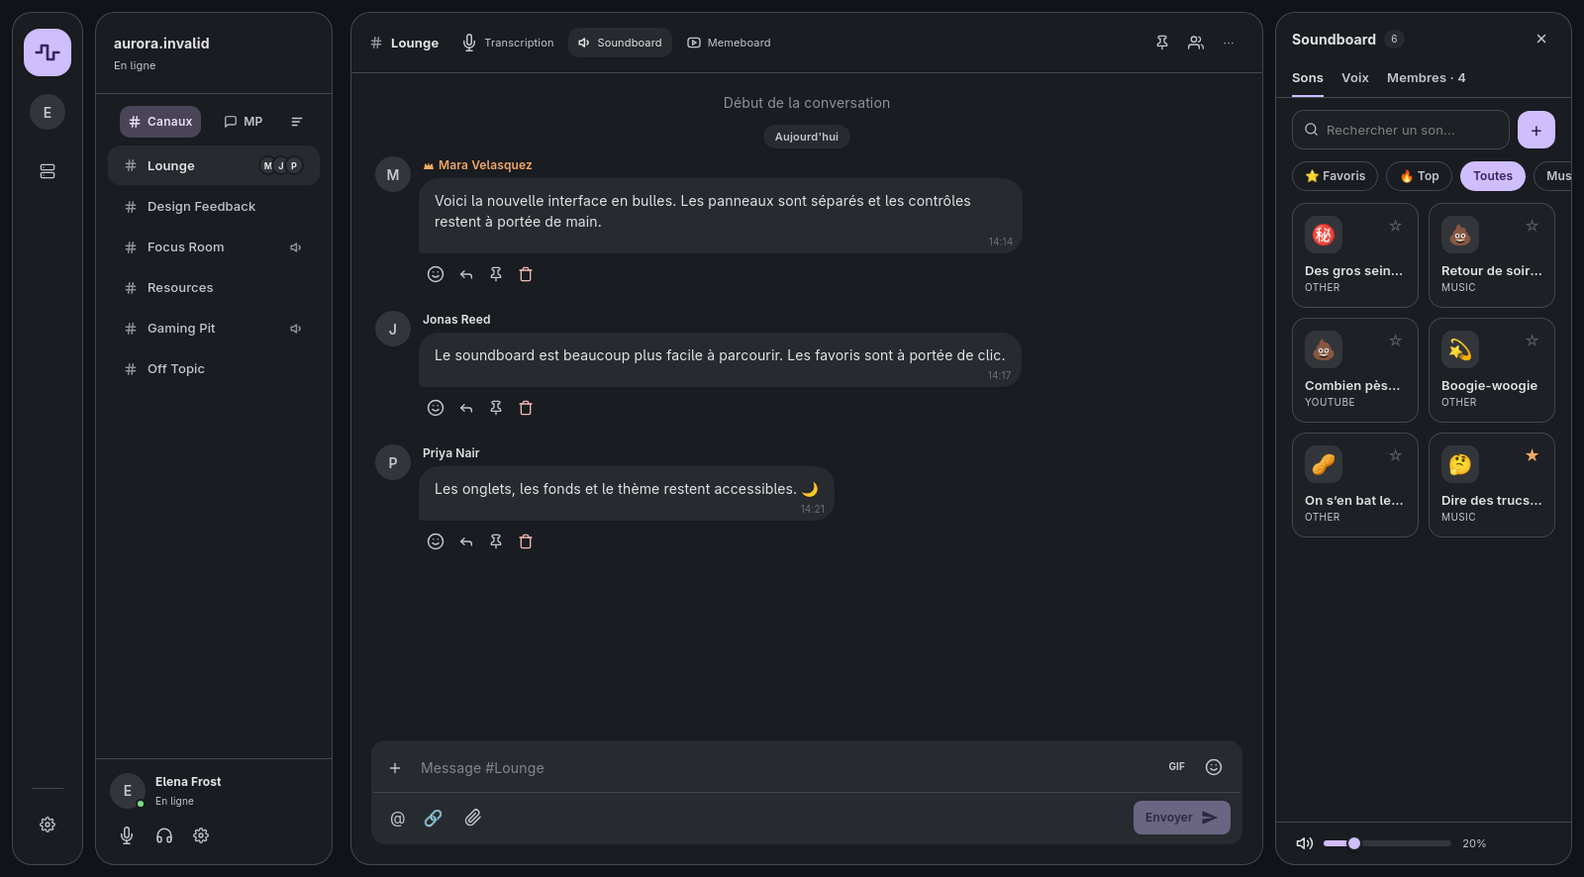
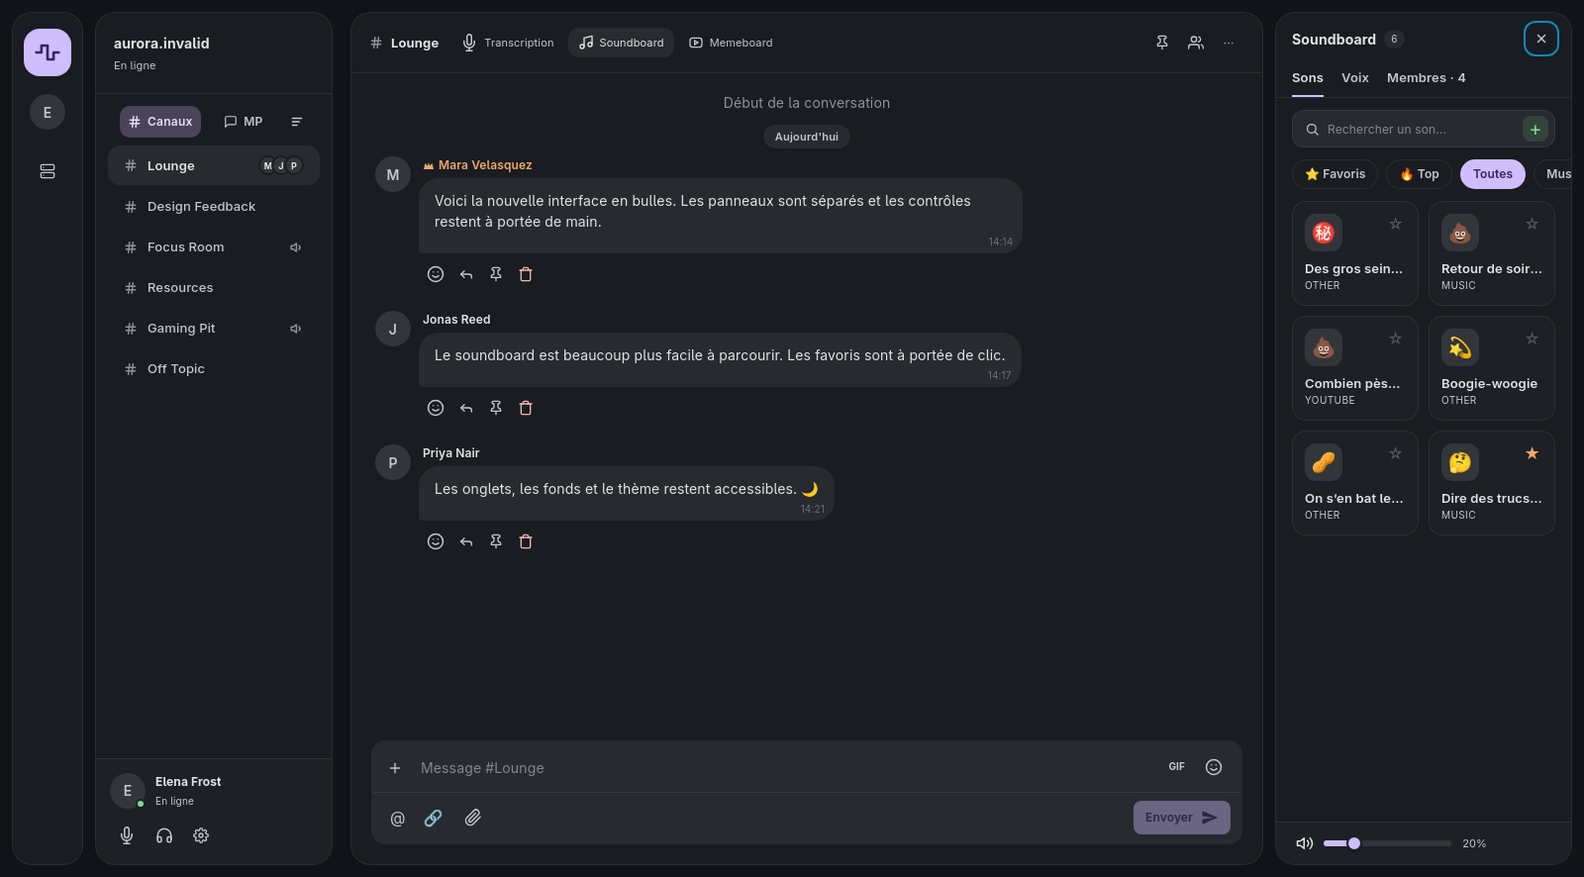
fix(interface): adoucir les bulles et intégrer les actions de recherche

diff --git a/src/components/chat/SoundboardPanel.tsx b/src/components/chat/SoundboardPanel.tsx
@@ -1,3 +1,4 @@
+import { RecherchePanneau } from "./RecherchePanneau";
 import { useCompteurPanneau } from "../layout/panneauxCompteurs";
 import { useEffect, useState, useMemo, useRef } from "react";
 import { useTranslation } from "react-i18next";
@@ -361,7 +362,7 @@ export function SoundboardPanel() {
         display: 'flex', alignItems: 'center', gap: 5, flexShrink: 0,
         padding: '5px 12px', borderRadius: 999, cursor: 'pointer',
         fontSize: 12, fontWeight: 600, fontFamily: 'inherit', whiteSpace: 'nowrap',
-        border: active ? '1px solid var(--color-primary)' : '1px solid var(--color-outline-variant)',
+        border: active ? '1px solid var(--color-primary)' : '1px solid var(--color-border)',
         background: active ? 'var(--color-primary)' : 'transparent',
         color: active ? 'var(--color-on-primary)' : 'var(--color-on-surface-variant)',
         opacity: opts?.dim ? 0.5 : 1,
@@ -379,31 +380,6 @@ export function SoundboardPanel() {
     { key: "voices" as const, label: t("tts.tab"), show: canUpload && !SUR_ANDROID },
     { key: "members" as const, label: `${t("soundboard.tabMembers")} · ${members.length}`, show: canManageMembers },
   ].filter((x) => x.show);
-
-  const searchBox = (inHeader: boolean) => (
-    <div style={{
-      position: 'relative', display: 'flex', alignItems: 'center', minWidth: 0,
-      flex: inHeader ? '0 1 220px' : 1,
-    }}>
-      <span style={{ position: 'absolute', left: inHeader ? 10 : 12, color: 'var(--color-on-surface-variant)', display: 'flex', pointerEvents: 'none' }}>
-        <svg width={inHeader ? 13 : 15} height={inHeader ? 13 : 15} viewBox="0 0 24 24" fill="none" stroke="currentColor" strokeWidth="2" strokeLinecap="round" strokeLinejoin="round">
-          <circle cx="11" cy="11" r="8" /><line x1="21" y1="21" x2="16.65" y2="16.65" />
-        </svg>
-      </span>
-      <input
-        value={search}
-        onChange={(e) => setSearch(e.target.value)}
-        placeholder={t("soundboard.searchPlaceholder")}
-        style={{
-          width: '100%', minWidth: 0, boxSizing: 'border-box',
-          padding: inHeader ? '4px 10px 4px 28px' : '9px 12px 9px 34px',
-          borderRadius: inHeader ? 999 : 12,
-          border: '1px solid var(--color-outline-variant)', background: 'var(--color-surface-container)',
-          color: 'var(--color-on-surface)', fontSize: inHeader ? 12 : 13, fontFamily: 'inherit', outline: 'none',
-        }}
-      />
-    </div>
-  );
 
   const volumeControl = (inHeader: boolean) => (
     <div style={{ display: 'flex', alignItems: 'center', gap: 6, minWidth: 0, flexShrink: 0, color: 'var(--color-on-surface-variant)' }}>
@@ -445,19 +421,6 @@ export function SoundboardPanel() {
     </div>
   );
 
-  const uploadButton = (small: boolean) => (
-    <button
-      onClick={() => setShowUpload(true)}
-      aria-label={t("soundboard.upload")} title={t("soundboard.upload")}
-      style={{
-        width: small ? 28 : 38, height: small ? 28 : 38, flexShrink: 0,
-        borderRadius: small ? 999 : 12, border: 'none',
-        background: 'var(--color-primary)', color: 'var(--color-on-primary)', cursor: 'pointer',
-        fontSize: small ? 17 : 20, fontWeight: 400, display: 'flex', alignItems: 'center', justifyContent: 'center', lineHeight: 1,
-      }}
-    >+</button>
-  );
-
   return (
     <div className="soundboard-panel" style={{ display: 'flex', flexDirection: 'column', flex: 1, minHeight: 0, overflow: 'hidden' }}>
       <style>{`
@@ -473,7 +436,7 @@ export function SoundboardPanel() {
           {/* Tabs — défilement horizontal (masqué) pour ne jamais rogner quand le
               panneau est étroit. */}
           {roomId && (canUpload || canManageMembers) && (
-            <div className="sb-pills" onWheel={onPillWheel} style={{ display: 'flex', gap: 18, padding: '0 16px', borderBottom: '1px solid var(--color-outline-variant)', overflowX: 'auto' }}>
+            <div className="sb-pills" onWheel={onPillWheel} style={{ display: 'flex', gap: 18, padding: '0 16px', borderBottom: '1px solid var(--color-border)', overflowX: 'auto' }}>
               {tabDefs.map((x) => (
                 <button
                   key={x.key}
@@ -546,12 +509,11 @@ export function SoundboardPanel() {
 
       {roomId && tab === "sounds" && (
         <>
-          {/* Search + add — en zone basse, la recherche et le « + » vivent dans
-              la ligne d'en-tête (châssis compact). */}
+          {/* Recherche et ajout réunis dans un même champ. */}
           {(
             <div style={{ padding: '12px 16px 8px', display: 'flex', gap: 8, alignItems: 'center' }}>
-              {searchBox(false)}
-              {canUpload && uploadButton(false)}
+              <RecherchePanneau valeur={search} onChange={setSearch} libelle={t("soundboard.searchPlaceholder")}
+                ajout={canUpload ? { libelle: t("soundboard.upload"), onClick: () => setShowUpload(true) } : undefined} />
             </div>
           )}
 
@@ -580,7 +542,7 @@ export function SoundboardPanel() {
                 type="button"
                 onClick={() => setSelectedCat(parentPath(anchorNode.fullPath))}
                 title={t("soundboard.back")}
-                style={{ flexShrink: 0, width: 30, height: 30, borderRadius: 999, border: '1px solid var(--color-outline-variant)', background: 'transparent', color: 'var(--color-on-surface-variant)', cursor: 'pointer', display: 'flex', alignItems: 'center', justifyContent: 'center' }}
+                style={{ flexShrink: 0, width: 30, height: 30, borderRadius: 999, border: '1px solid var(--color-border)', background: 'transparent', color: 'var(--color-on-surface-variant)', cursor: 'pointer', display: 'flex', alignItems: 'center', justifyContent: 'center' }}
               >
                 <svg width="15" height="15" viewBox="0 0 24 24" fill="none" stroke="currentColor" strokeWidth="2.5" strokeLinecap="round" strokeLinejoin="round"><polyline points="15 18 9 12 15 6" /></svg>
               </button>
@@ -625,13 +587,13 @@ export function SoundboardPanel() {
                       style={{
                         position: 'relative', display: 'flex', flexDirection: 'column', gap: 8,
                         padding: 12, borderRadius: 'var(--sion-carte-rayon)',
-                        border: '1px solid var(--color-outline-variant)',
+                        border: '1px solid var(--color-border)',
                         background: 'var(--color-surface-container)',
                         cursor: 'pointer', opacity: enabled ? 1 : 0.4, pointerEvents: enabled ? 'auto' : 'none',
                         transition: 'background 120ms, border-color 120ms',
                       }}
                       onMouseEnter={(e) => { e.currentTarget.style.background = 'var(--color-surface-container-high)'; e.currentTarget.style.borderColor = 'var(--color-primary)'; }}
-                      onMouseLeave={(e) => { e.currentTarget.style.background = 'var(--color-surface-container)'; e.currentTarget.style.borderColor = 'var(--color-outline-variant)'; }}
+                      onMouseLeave={(e) => { e.currentTarget.style.background = 'var(--color-surface-container)'; e.currentTarget.style.borderColor = 'var(--color-border)'; }}
                     >
                       <div style={{ display: 'flex', alignItems: 'flex-start', justifyContent: 'space-between' }}>
                         <div style={{ width: 38, height: 38, borderRadius: 11, background: 'var(--color-surface-container-highest)', display: 'flex', alignItems: 'center', justifyContent: 'center', fontSize: 20 }}>
@@ -701,8 +663,8 @@ export function SoundboardPanel() {
 
           {/* Volume en pied de panneau. */}
           {(
-            <div style={{
-              padding: '8px 16px', borderTop: '1px solid var(--color-outline-variant)',
+            <div className="sion-pied-panneau" style={{
+              padding: '8px 16px',
               display: 'flex', alignItems: 'center', gap: 8, fontSize: 11, color: 'var(--color-on-surface-variant)',
             }}>
               {volumeControl(false)}

diff --git a/src/components/chat/MemeboardPanel.tsx b/src/components/chat/MemeboardPanel.tsx
@@ -1,3 +1,4 @@
+import { RecherchePanneau } from "./RecherchePanneau";
 import { useCompteurPanneau } from "../layout/panneauxCompteurs";
 // Memeboard : la grille des memes du salon, et leur import.
 //
@@ -452,34 +453,9 @@ export function MemeboardPanel() {
 
   useCompteurPanneau("memeboard", memes.length);
 
-  const champRecherche = (
-    <input
-      value={recherche}
-      onChange={(e) => setRecherche(e.target.value)}
-      placeholder={t("memeboard.search")}
-      style={{
-        flex: 1, minWidth: 0, boxSizing: 'border-box',
-        padding: '8px 12px', borderRadius: 12,
-        border: '1px solid var(--color-outline-variant)', background: 'var(--color-surface-container)',
-        color: 'var(--color-on-surface)', fontSize: 13, fontFamily: 'inherit', outline: 'none',
-      }}
-    />
-  );
-
-  // Créer un meme passe par ffmpeg (analyse, découpe) : pas sur téléphone,
-  // où l'on déclenche seulement ceux du salon.
-  const boutonAjouter = peutEnvoyer && !SUR_ANDROID && (
-    <button
-      type="button"
-      onClick={() => setImport(true)}
-      title={t("memeboard.add")}
-      style={{
-        width: 36, height: 36, flexShrink: 0, borderRadius: 12,
-        border: 'none', background: 'var(--color-primary)', color: 'var(--color-on-primary)',
-        cursor: 'pointer', fontSize: 20, display: 'flex', alignItems: 'center', justifyContent: 'center', lineHeight: 1,
-      }}
-    >+</button>
-  );
+  // L'import ffmpeg reste réservé aux ordinateurs.
+  const champRecherche = <RecherchePanneau valeur={recherche} onChange={setRecherche} libelle={t("memeboard.search")}
+    ajout={peutEnvoyer && !SUR_ANDROID ? { libelle: t("memeboard.add"), onClick: () => setImport(true) } : undefined} />;
 
   return (
     <div style={{ display: 'flex', flexDirection: 'column', flex: 1, minHeight: 0, overflow: 'hidden' }}>
@@ -490,7 +466,6 @@ export function MemeboardPanel() {
             <div style={{ display: 'flex', flexDirection: 'column', gap: 10, padding: '0 16px 12px' }}>
               <div style={{ display: 'flex', gap: 8, alignItems: 'center' }}>
                 {champRecherche}
-                {boutonAjouter}
               </div>
               {reglageVolume}
             </div>
@@ -528,7 +503,7 @@ export function MemeboardPanel() {
                 style={{
                   position: 'relative', display: 'flex', flexDirection: 'column', gap: 6,
                   padding: 6, borderRadius: 12, cursor: actif ? 'pointer' : 'not-allowed',
-                  border: '1px solid var(--color-outline-variant)', background: 'var(--color-surface-container)',
+                  border: '1px solid var(--color-border)', background: 'var(--color-surface-container)',
                   opacity: actif ? 1 : 0.45, transition: 'border-color 120ms',
                 }}
                 onMouseEnter={(e) => {
@@ -536,7 +511,7 @@ export function MemeboardPanel() {
                   setSurvolee(m.eventId);
                 }}
                 onMouseLeave={(e) => {
-                  e.currentTarget.style.borderColor = 'var(--color-outline-variant)';
+                  e.currentTarget.style.borderColor = 'var(--color-border)';
                   setSurvolee((id) => (id === m.eventId ? null : id));
                 }}
               >

diff --git a/src/index.css b/src/index.css
@@ -122,7 +122,7 @@ body {
   border-radius: var(--sion-bulle-rayon);
   overflow: hidden;
   background: var(--color-surface-container-low);
-  border: 1px solid var(--color-outline-variant);
+  border: 1px solid var(--color-border);
   position: relative;
   display: flex;
   flex-direction: column;
@@ -534,7 +534,7 @@ select option {
   border-right: 1px solid var(--color-outline);
 }
 
-.sion-chat-header { display: flex; align-items: center; gap: 12px; padding: 14px 18px; min-height: 58px; flex-shrink: 0; border-bottom: 1px solid var(--color-outline-variant); }
+.sion-chat-header { display: flex; align-items: center; gap: 12px; padding: 14px 18px; min-height: 58px; flex-shrink: 0; border-bottom: 1px solid var(--color-border); }
 .sion-conversation .sion-messages { padding: 20px 24px; }
 .sion-chat-salon { display: flex; align-items: center; gap: 8px; min-width: 0; font-weight: 700; font-size: 13px; }
 .sion-chat-salon > span { white-space: nowrap; overflow: hidden; text-overflow: ellipsis; max-width: 180px; }
@@ -561,7 +561,15 @@ select option {
 
 .sion-saisie-ligne > textarea { order: 1; min-width: 0; }
 .sion-saisie-picker { order: 2; }
-.sion-saisie-actions { display: flex; align-items: center; gap: 4px; padding: 6px 10px; border-top: 1px solid var(--color-outline-variant); }
+.sion-saisie-actions { display: flex; align-items: center; gap: 4px; padding: 6px 10px; border-top: 1px solid var(--color-border); }
 .sion-saisie-actions > button { display: flex; align-items: center; justify-content: center; border: none; background: transparent; color: var(--color-on-surface-variant); padding: 7px; border-radius: 8px; cursor: pointer; font-family: inherit; font-size: 16px; }
 .sion-saisie-actions > .sion-envoyer { margin-left: auto; background: var(--color-primary); color: var(--color-on-primary); gap: 8px; padding: 8px 12px; font-size: 12px; font-weight: 600; }
 .sion-saisie-actions > button:disabled { opacity: 0.4; cursor: default; }
+
+.sion-recherche-panneau { display: flex; align-items: center; gap: 8px; min-width: 0; flex: 1; min-height: 36px; padding: 3px 6px 3px 12px; border: 1px solid var(--color-border); border-radius: 12px; background: var(--color-surface-container-high); color: var(--color-on-surface-variant); }
+.sion-recherche-panneau:focus-within { border-color: var(--color-primary); }
+.sion-recherche-panneau > svg { flex-shrink: 0; }
+.sion-recherche-panneau > input { flex: 1; min-width: 0; padding: 6px 0; border: 0; outline: none; background: transparent; color: var(--color-on-surface); font-family: inherit; font-size: 12px; }
+.sion-recherche-panneau > button { display: flex; align-items: center; justify-content: center; flex-shrink: 0; width: 26px; height: 26px; padding: 0; border: 0; border-radius: 8px; background: color-mix(in srgb, var(--color-green) 14%, transparent); color: var(--color-green); cursor: pointer; font-family: inherit; font-size: 20px; line-height: 1; }
+.sion-recherche-panneau > button:hover { background: color-mix(in srgb, var(--color-green) 24%, transparent); }
+.sion-pied-panneau { background: var(--color-surface-container); border-top: 1px solid var(--color-border); }

diff --git a/src/components/sidebar/CarteProfil.tsx b/src/components/sidebar/CarteProfil.tsx
@@ -74,12 +74,12 @@ export function CarteProfil({ compact = false }: { compact?: boolean }) {
   const raccrocher = inVoice && <button type="button" aria-label={t("voice.disconnect")} title={t("voice.disconnect")}
     onClick={() => leaveVoiceChannel(connectedVoice!)} style={{ ...audioBouton(true), marginLeft: compact ? 0 : 'auto' }}><DisconnectIcon /></button>;
   return (
-    <div style={{ padding: compact ? '14px 8px' : '14px 14px 12px', borderTop: '1px solid var(--color-outline-variant)', flexShrink: 0, display: 'flex', flexDirection: 'column', gap: 10 }}>
+    <div className="sion-carte-profil" style={{ padding: compact ? '14px 8px' : '14px 14px 12px', borderTop: '1px solid var(--color-border)', background: 'var(--color-surface-container)', flexShrink: 0, display: 'flex', flexDirection: 'column', gap: 10 }}>
       <button type="button" data-panel-toggle aria-label={t("settings.account")} onClick={toggleAccountPanel}
         title={displayName} style={{ display: 'flex', alignItems: 'center', justifyContent: compact ? 'center' : 'flex-start', gap: 10, background: 'transparent', border: 0, padding: 0, cursor: 'pointer', color: 'var(--color-on-surface)', textAlign: 'left', fontFamily: 'inherit', minWidth: 0 }}>
         <span style={{ position: 'relative', display: 'flex', flexShrink: 0 }}>
           <UserAvatar name={displayName} speaking={false} size="md" avatarUrl={avatarUrl} />
-          <span style={{ position: 'absolute', right: 0, bottom: 0, width: 10, height: 10, borderRadius: '50%', background: 'var(--color-green)', border: '2px solid var(--color-surface-container-low)' }} />
+          <span style={{ position: 'absolute', right: 0, bottom: 0, width: 10, height: 10, borderRadius: '50%', background: 'var(--color-green)', border: '2px solid var(--color-surface-container)' }} />
         </span>
         {!compact && <span style={{ minWidth: 0, flex: 1 }}>
           <span style={{ display: 'block', fontSize: 12, fontWeight: 700, overflow: 'hidden', textOverflow: 'ellipsis', whiteSpace: 'nowrap' }}>{displayName}</span>

diff --git a/src/components/layout/RailServeurs.tsx b/src/components/layout/RailServeurs.tsx
@@ -9,6 +9,7 @@ import { useAdminStore } from "../../stores/useAdminStore";
 import { usePendingUsersStore } from "../../stores/usePendingUsersStore";
 import { useLayoutStore } from "../../stores/useLayoutStore";
 import { preloadHeavyScreens } from "../../services/lazyScreens";
+import { useFenetreEtroite } from "../../hooks/useFenetreEtroite";
 
 export function RailServeurs() {
   const { t } = useTranslation();
@@ -19,6 +20,7 @@ export function RailServeurs() {
   const showAccount = useAppStore((s) => s.showAccountPanel);
   const showAdmin = useAppStore((s) => s.showAdmin);
   const showSettings = useAppStore((s) => s.showSettings);
+  const etroite = useFenetreEtroite();
   const nom = credentials?.displayName || credentials?.userId || "Sion";
   return (
     <>
@@ -39,11 +41,13 @@ export function RailServeurs() {
           {pendingCount > 0 && <span className="sion-rail-compteur">{pendingCount}</span>}
         </button>}
         <div style={{ flex: 1 }} />
-        <hr style={{ width: 32, border: 0, borderTop: "1px solid var(--color-outline-variant)" }} />
-        <button className="sion-rail-bouton" data-panel-toggle aria-label={t("settings.title")} title={t("settings.title")} aria-pressed={showSettings}
-          onPointerEnter={() => preloadHeavyScreens(0)} onClick={() => useAppStore.getState().toggleSettings()}>
-          <SettingsIcon />
-        </button>
+        {(mode !== "full" || etroite) && <>
+          <hr style={{ width: 32, border: 0, borderTop: "1px solid var(--color-border)" }} />
+          <button className="sion-rail-bouton" data-panel-toggle aria-label={t("settings.title")} title={t("settings.title")} aria-pressed={showSettings}
+            onPointerEnter={() => preloadHeavyScreens(0)} onClick={() => useAppStore.getState().toggleSettings()}>
+            <SettingsIcon />
+          </button>
+        </>}
       </Bulle>
       <AccountPopover compact />
     </>

diff --git a/src/components/chat/OngletsPanneaux.tsx b/src/components/chat/OngletsPanneaux.tsx
@@ -1,5 +1,5 @@
 import { useTranslation } from "react-i18next";
-import { MicIcon, SpeakerIcon } from "../icons";
+import { MicIcon } from "../icons";
 import { useLayoutStore, type PanneauId } from "../../stores/useLayoutStore";
 
 export function OngletsPanneaux({ salonVocal }: { salonVocal: boolean }) {
@@ -8,7 +8,7 @@ export function OngletsPanneaux({ salonVocal }: { salonVocal: boolean }) {
   const basculer = useLayoutStore((s) => s.basculerPanneau);
   const onglets: { id: PanneauId; titre: string; icone: React.ReactNode }[] = [
     ...(salonVocal ? [{ id: "transcript" as const, titre: "transcript.title", icone: <MicIcon /> }] : []),
-    { id: "soundboard", titre: "soundboard.title", icone: <SpeakerIcon /> },
+    { id: "soundboard", titre: "soundboard.title", icone: <svg width="16" height="16" viewBox="0 0 24 24" fill="none" stroke="currentColor" strokeWidth="2" strokeLinecap="round" strokeLinejoin="round" aria-hidden="true"><path d="M9 18V5l12-3v13" /><circle cx="6" cy="18" r="3" /><circle cx="18" cy="15" r="3" /></svg> },
     { id: "memeboard", titre: "memeboard.title", icone: <svg width="16" height="16" viewBox="0 0 24 24" fill="none" stroke="currentColor" strokeWidth="2" aria-hidden="true"><rect x="3" y="5" width="18" height="14" rx="4" /><path d="m10 9 5 3-5 3Z" /></svg> },
   ];
   return <div className="sion-onglets-panneaux" role="group" aria-label={t("layout.panels")}>

diff --git a/src/components/chat/RecherchePanneau.tsx b/src/components/chat/RecherchePanneau.tsx
@@ -1,0 +1,15 @@
+/** Recherche des sons et memes, avec l'ajout intégré au même champ. */
+export function RecherchePanneau({ valeur, onChange, libelle, ajout }: {
+  valeur: string;
+  onChange: (valeur: string) => void;
+  libelle: string;
+  ajout?: { libelle: string; onClick: () => void };
+}) {
+  return <div className="sion-recherche-panneau">
+    <svg width="15" height="15" viewBox="0 0 24 24" fill="none" stroke="currentColor" strokeWidth="2" strokeLinecap="round" aria-hidden="true">
+      <circle cx="11" cy="11" r="7" /><path d="m16 16 5 5" />
+    </svg>
+    <input type="search" aria-label={libelle} placeholder={libelle} value={valeur} onChange={(e) => onChange(e.target.value)} />
+    {ajout && <button type="button" aria-label={ajout.libelle} title={ajout.libelle} onClick={ajout.onClick}>+</button>}
+  </div>;
+}

diff --git a/src/components/sidebar/ServerHeader.tsx b/src/components/sidebar/ServerHeader.tsx
@@ -52,7 +52,7 @@ export function ServerHeader({ compact = false }: { compact?: boolean }) {
   })();
 
   if (!isMobile) return (
-    <div style={{ padding: compact ? '16px 8px' : '20px 18px', borderBottom: '1px solid var(--color-outline-variant)', flexShrink: 0 }}>
+    <div style={{ padding: compact ? '16px 8px' : '20px 18px', borderBottom: '1px solid var(--color-border)', flexShrink: 0 }}>
       <div title={serverName} style={{ fontSize: 14, fontWeight: 700, color: 'var(--color-on-surface)', overflow: 'hidden', textOverflow: 'ellipsis', whiteSpace: 'nowrap', textAlign: compact ? 'center' : 'left' }}>{compact ? "S" : serverName}</div>
       {!compact && <div style={{ marginTop: 4, fontSize: 11, color: 'var(--color-on-surface-variant)' }}>{t("server.online")}</div>}
     </div>

diff --git a/src/components/layout/RailServeurs.test.tsx b/src/components/layout/RailServeurs.test.tsx
@@ -9,6 +9,7 @@ vi.mock("../../i18n", () => ({ default: { t: (key: string) => key, changeLanguag
 vi.mock("react-i18next", () => ({ useTranslation: () => ({ t: (key: string) => key }) }));
 vi.mock("../sidebar/AccountPopover", () => ({ AccountPopover: () => null }));
 vi.mock("../../services/lazyScreens", () => ({ preloadHeavyScreens: vi.fn() }));
+vi.mock("../../hooks/useFenetreEtroite", () => ({ useFenetreEtroite: () => false }));
 const vue = montage();
 beforeEach(() => { useLayoutStore.setState({ sidebarMode: "full" }); useAdminStore.setState({ isAdmin: false }); });
 it("le logo replie et déplie la barre des salons", async () => {

diff --git a/docs/interface-bulles.md b/docs/interface-bulles.md
@@ -13,10 +13,12 @@ Sur ordinateur, quatre espaces séparés composent la fenêtre : rail de
 navigation, salons, conversation et panneau latéral. Les bulles ont un rayon
 de 20 px et un écart de 12 px ; les cartes internes utilisent un rayon de 14 px.
 
-Le rail permet de replier les salons, ouvrir le compte, l'administration
-(si autorisée) et les réglages. La carte de profil au pied des salons réunit
+Le rail permet de replier les salons, ouvrir le compte et l'administration
+(si autorisée). La carte de profil au pied des salons réunit
 les commandes audio et le raccrochage lorsqu'un appel est actif. Les avatars
-vocaux restent sur la ligne du salon ; un clic les déplie.
+vocaux restent sur la ligne du salon ; un clic les déplie. Paramètres est
+affiché dans cette carte lorsque le menu est déployé ; lorsque le menu est
+compact ou masqué, le rail prend le relais avec ce même accès.
 
 Les onglets de conversation ouvrent transcription (salon vocal), soundboard
 ou memeboard. Épinglés et membres utilisent le même panneau ; un nouveau
@@ -85,3 +87,21 @@ Les vérifications réelles en appel (micro / F8, sons, partage reçu), les
 transitions du lecteur et le placement HWND Windows restent à effectuer.
 Les aperçus avec données fictives ne valident pas ces fonctions matérielles.
 La branche ne doit pas être fusionnée dans `main` avant la 2.0.0 finale.
+
+## Retouches après comparaison à la maquette
+
+D’après la capture annotée `Capture d'écran_20261007_133803.png` :
+
+- Contours des bulles, cartes et séparateurs adoucis avec le token de thème
+  `color-border`, au lieu de `color-outline-variant`.
+- Un seul accès Paramètres visible : profil en mode déployé, rail en mode
+  compact ou masqué. L’accès reste disponible dans une fenêtre étroite.
+- Recherche commune aux sons et memes, fond `surface-container-high`,
+  bouton + vert intégré au champ, affiché selon les mêmes autorisations.
+- Fonds `surface-container` du profil et du pied de volume du soundboard.
+- Icône de note de musique dans l’onglet Soundboard, comme la référence.
+
+Vérifications : compilation TypeScript, tests concernés, aperçus sombre et
+clair ; recherche et filtres, ajout intégré, accès Paramètres unique à
+1600 / 1000 / 768 px, feuille téléphone à 390 px. Aperçu WebKitGTK actualisé.
+La mesure CPU de 60 secondes ci-dessus est celle de l’implémentation initiale.
